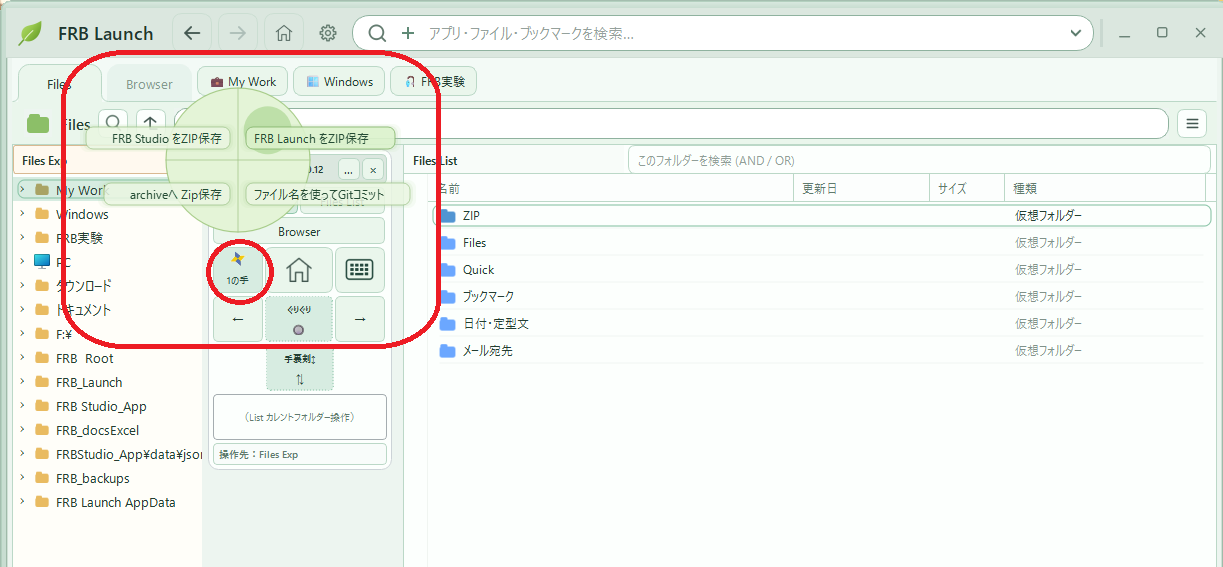
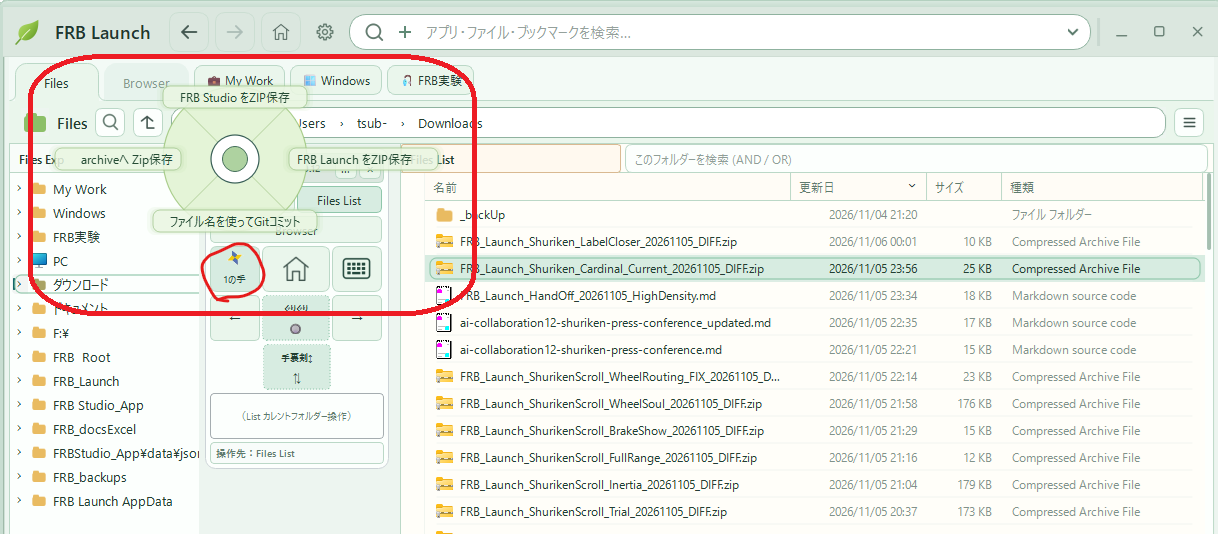
FRB_Launch_Shuriken_LabelCloser_20261105_DIFF.zip

diff --git a/tools/FRB_Launch/src/shuriken_model.py b/tools/FRB_Launch/src/shuriken_model.py
@@ -22,9 +22,9 @@ MAX_ITEMS_PER_HAND = 10
 THREE_SECTOR_LAYOUT = {
     # Compass angle, caption anchor X/Y, alignment. Keep captions clear of
     # the central current ring and selected-direction indicator.
-    'up_left': (-150.0, -66.0, -22.0, 'right'),
-    'up_right': (-30.0, 66.0, -22.0, 'left'),
-    'down': (90.0, 0.0, 70.0, 'center'),
+    'up_left': (-150.0, -58.0, -18.0, 'right'),
+    'up_right': (-30.0, 58.0, -18.0, 'left'),
+    'down': (90.0, 0.0, 62.0, 'center'),
 }
 THREE_SECTOR_DIVIDERS = (-90.0, 30.0, 150.0)
 
@@ -34,10 +34,10 @@ THREE_SECTOR_DIVIDERS = (-90.0, 30.0, 150.0)
 # up_left -> up, up_right -> right, down_right -> down, down_left -> left.
 # The divider lines bisect the gaps at 45/135/225/315 degrees (an X).
 FOUR_SECTOR_LAYOUT = {
-    'up': (-90.0, 0.0, -70.0, 'center'),
-    'right': (0.0, 62.0, 0.0, 'left'),
-    'down': (90.0, 0.0, 70.0, 'center'),
-    'left': (180.0, -62.0, 0.0, 'right'),
+    'up': (-90.0, 0.0, -62.0, 'center'),
+    'right': (0.0, 54.0, 0.0, 'left'),
+    'down': (90.0, 0.0, 62.0, 'center'),
+    'left': (180.0, -54.0, 0.0, 'right'),
 }
 
 

diff --git a/tools/FRB_Launch/src/remote_shuriken.py b/tools/FRB_Launch/src/remote_shuriken.py
@@ -157,7 +157,7 @@ class ShurikenPreview(QWidget):
                     is_up = (entry.direction == 'up'
                              if {row.direction for row in self.entries} == {'up', 'down'}
                              else index == 0)
-                    text_cy = -70.0 if is_up else 70.0
+                    text_cy = -62.0 if is_up else 62.0
                     mark_y = -self.MARKER_DISTANCE if is_up else self.MARKER_DISTANCE
                 else:
                     text_cy = mark_y = -radius + (index + 0.5) * band
